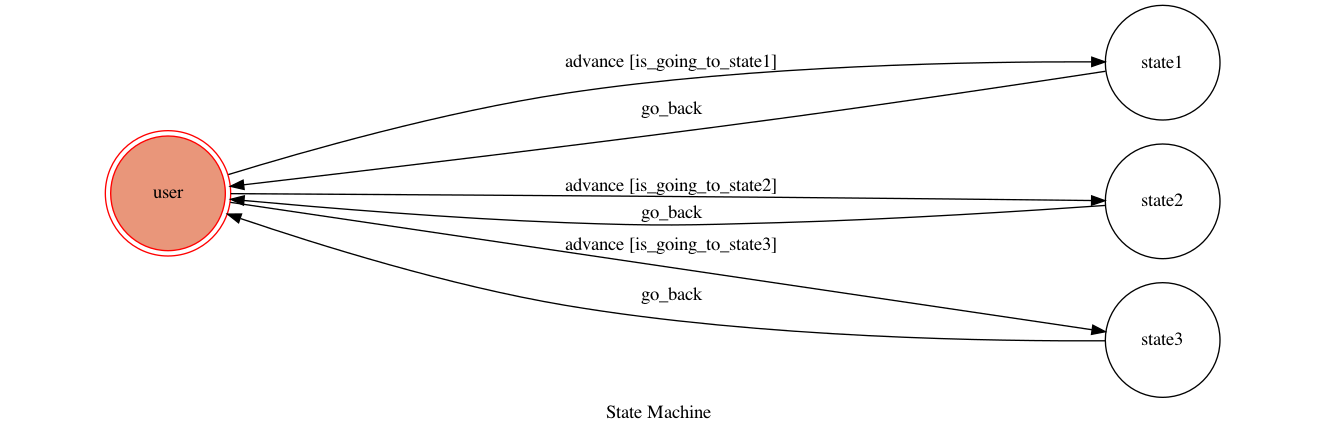
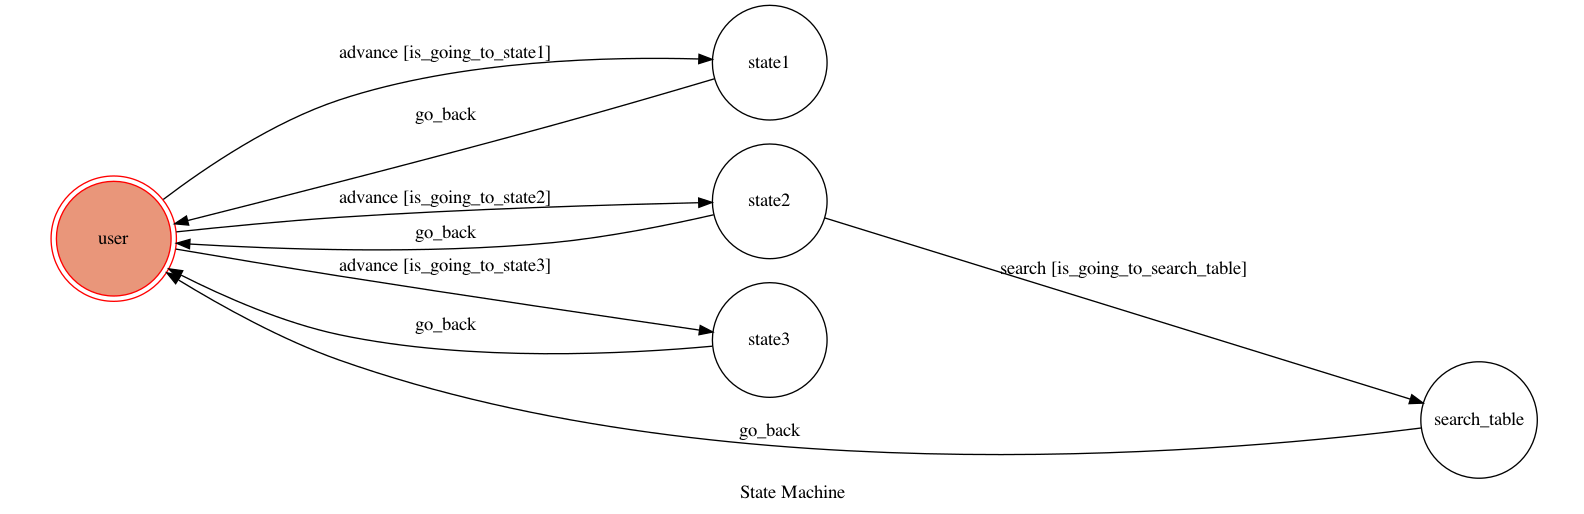
add code

diff --git a/app.py b/app.py
@@ -14,7 +14,7 @@ load_dotenv()
 
 
 machine = TocMachine(
-    states=["user", "state1", "state2", "state3", "search_table"],
+    states=["user", "state1", "state2", "state3"],
     transitions=[
         {
             "trigger": "advance",
@@ -34,15 +34,15 @@ machine = TocMachine(
             "dest": "state3",
             "conditions": "is_going_to_state3",
         },
-        {
+        """{
             "trigger": "search",
             "source": "state2",
             "dest": "search_table",
             "conditions": "is_going_to_search_table",
-        },
+        },"""
         {
             "trigger": "go_back",
-            "source": ["state1", "state2", "state3", "search_table"],
+            "source": ["state1", "state2", "state3"],
             "dest": "user"
         },
 
@@ -121,8 +121,8 @@ def webhook_handler():
         print(f"REQUEST BODY: \n{body}")
         if machine.state == "user":
             response = machine.advance(event)
-        if machine.state == "state2":
-            response = machine.search(event)
+        """if machine.state == "state2":
+            response = machine.search(event)"""
         if response == False:
             send_text_message(event.reply_token, "Not Entering any State")
 

diff --git a/fsm.py b/fsm.py
@@ -23,9 +23,9 @@ class TocMachine(GraphMachine):
         text = event.message.text
         return text.lower() == "state3"
 
-    def is_going_to_search_table(self, event):
+    """def is_going_to_search_table(self, event):
         text = event.message.text
-        return text.lower() == "時刻表"
+        return text.lower() == "時刻表" """
 
     def on_enter_state1(self, event):
         print("I'm entering state1")
@@ -654,7 +654,7 @@ class TocMachine(GraphMachine):
         s2 = json.loads(s1)
 
         send_flex_message(reply_token, "hello", s2)
-        # self.go_back()
+        self.go_back()
 
     """def on_exit_state2(self):
         print("Leaving state2")"""
@@ -669,7 +669,7 @@ class TocMachine(GraphMachine):
     def on_exit_state3(self):
         print("Leaving state3")
 
-    def on_enter_search_table(self, event):
+    """def on_enter_search_table(self, event):
         print("I'm entering search table")
 
         reply_token = event.reply_token
@@ -677,4 +677,4 @@ class TocMachine(GraphMachine):
         self.go_back()
 
     def on_exit_search_table(self):
-        print("Leaving search table")
+        print("Leaving search table")"""
